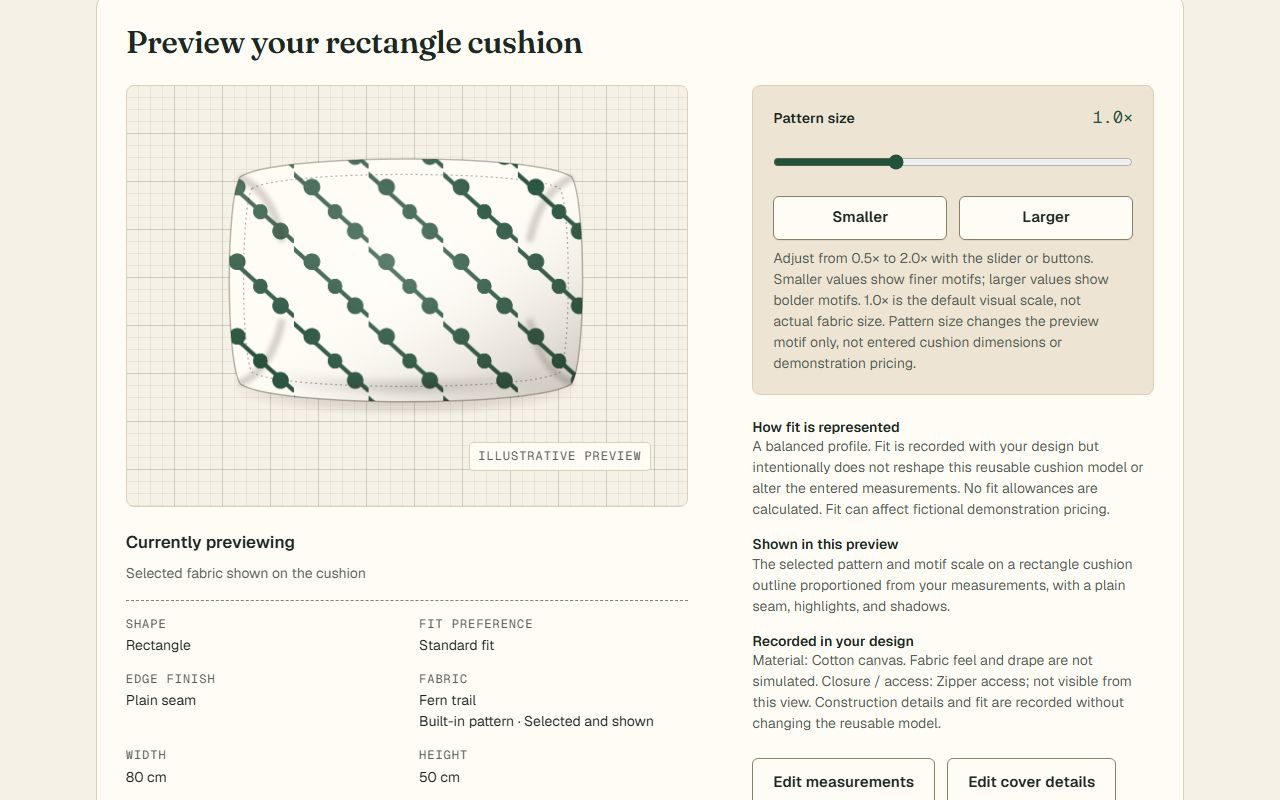
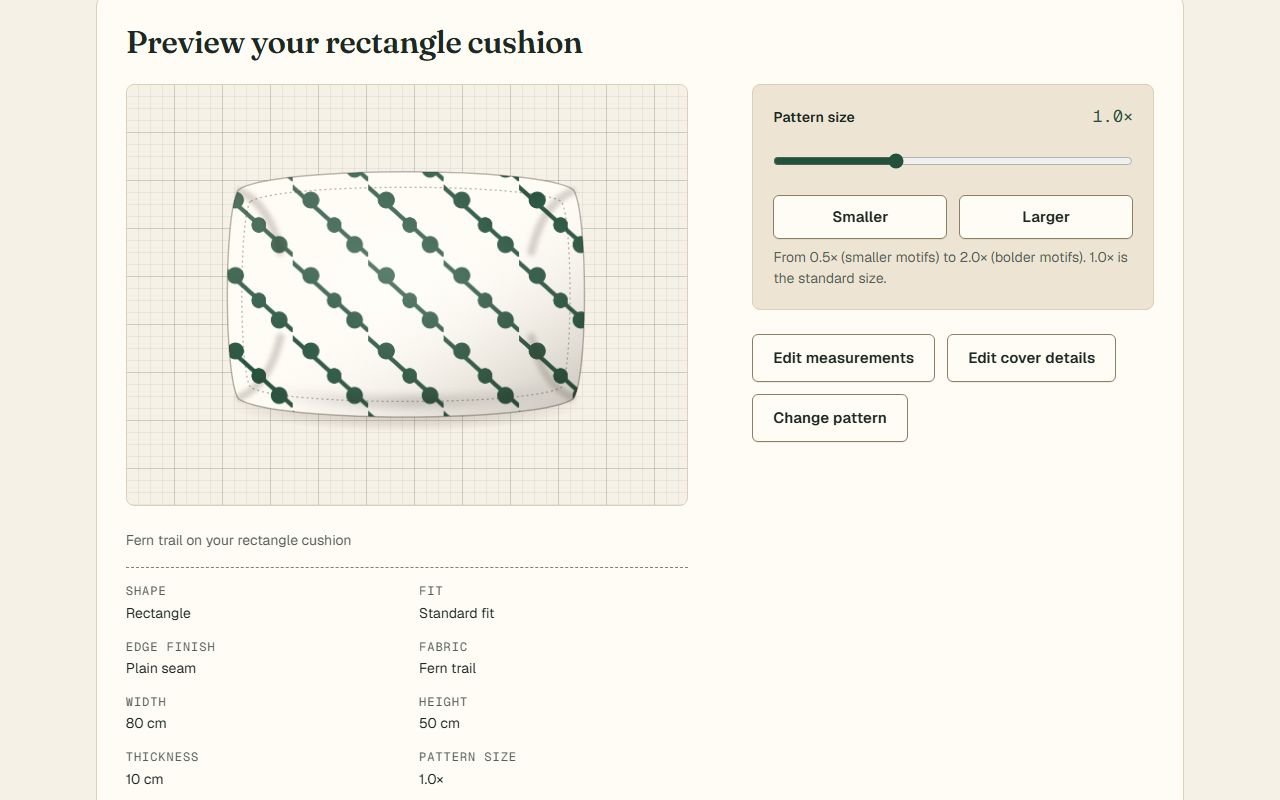
refresh README screenshots

diff --git a/README.md b/README.md
@@ -5,7 +5,7 @@ Measure the cushion you already own, pick a fabric, and get a previewed, shareab
 [![Frontend CI and deploy](https://github.com/nicolasfrechette91/SewnCovers/actions/workflows/deploy-pages.yml/badge.svg)](https://github.com/nicolasfrechette91/SewnCovers/actions/workflows/deploy-pages.yml)
 [![Backend CI and deploy](https://github.com/nicolasfrechette91/SewnCovers/actions/workflows/deploy-backend.yml/badge.svg)](https://github.com/nicolasfrechette91/SewnCovers/actions/workflows/deploy-backend.yml)
 
-![The configurator's Preview stage: a rectangular cushion covered in the green Fern trail pattern on a cutting mat, beside the pattern-size slider and the design details.](docs/images/preview-step.jpg)
+![The configurator's Preview stage: a rectangular cushion drawn in the green Fern trail pattern on a grid-lined cutting mat, with the pattern-size slider and edit buttons beside it and the design details below.](docs/images/preview-step.jpg)
 
 - **Live demo:** [nicolasfrechette91.github.io/SewnCovers](https://nicolasfrechette91.github.io/SewnCovers/) ([open the configurator](https://nicolasfrechette91.github.io/SewnCovers/configure/))
 - **Demo share link:** [a saved box cushion in Terrace wave](https://nicolasfrechette91.github.io/SewnCovers/configure/?design=fzlGCyCVpfiMf96geBq_jg), restored exactly from the API
@@ -17,16 +17,16 @@ The API runs on a free Render instance. It sleeps when idle, so the first reques
 | --- | --- |
 | ![The landing page: the headline "Design a cover that fits the cushion you already have", a Start configuring button and a measured 45 by 45 cm patterned cushion drawing.](docs/images/home.jpg) | ![The configurator's Shape stage: a six-stage progress track and five cushion shape cards with Rectangle cushion selected.](docs/images/shape-step.png) |
 | **Pattern stage** | **Review stage** |
-| ![The Pattern stage: built-in pattern search and filters, the Fern trail card selected, and a Current selections panel listing the rectangle's measurements and cover choices.](docs/images/pattern-step.png) | ![The Review stage: the prototype notice, a table of the chosen measurements and options, and the patterned cushion preview.](docs/images/review.jpg) |
+| ![The Pattern stage: a search box and style and colour filters above the 15 patterns, with Fern trail selected, and beside them a Current selections list and a live cushion preview in that pattern.](docs/images/pattern-step.jpg) | ![The Review stage: the prototype notice, a list of the chosen measurements and options, and the patterned cushion preview.](docs/images/review.jpg) |
 
 ## What this demonstrates
 
-- **A static frontend on a separate API.** Next.js 16 exported to GitHub Pages with no frontend server and no third-party runtime dependencies, validating every API response at runtime ([architecture](docs/architecture.md)).
+- **A static frontend on a separate API.** Next.js 16 exported to GitHub Pages with no frontend server and no runtime dependencies beyond Next.js and React, validating every API response at runtime ([architecture](docs/architecture.md)).
 - **Immutable share links with an explicit no-retry policy.** A saved design never changes, and the client never silently retries the write ([ADR 0002](docs/adr/0002-immutable-designs-no-post-retry.md)).
 - **A production start that refuses a wrong schema.** The API migrates, verifies the exact schema, constraints and seed, and only then serves ([ADR 0003](docs/adr/0003-migration-gated-production-start.md)).
 - **Guest-first accounts.** The whole design flow works without signing up; sign-in is inline and never costs the design. Argon2id passwords, hashed and revocable bearer sessions, object-level authorization ([ADR 0004](docs/adr/0004-guest-first-opaque-sessions.md)).
 - **A documented, enforced design system.** Tokens, checked contrast ratios, reduced-motion and forced-colours support, guarded by a test ([design](docs/design.md)).
-- **Offline-by-construction tests.** Over 250 frontend unit tests, about 90 Playwright journeys against a mocked API, and over 350 backend tests on migrated SQLite databases, all run by CI before either side deploys ([testing](docs/testing.md)).
+- **Offline-by-construction tests.** Over 350 frontend unit tests, about 90 Playwright journeys against a mocked API, and over 550 backend tests on migrated SQLite databases, all run by CI before either side deploys ([testing](docs/testing.md)).
 
 The reasoning behind the project is in the [case study](docs/case-study.md).
 
@@ -88,7 +88,7 @@ macOS and Linux commands, PostgreSQL, and how to switch on commerce and custom u
 
 ## Honest boundaries
 
-- **Custom uploads and commerce are switched off in production.** Both are implemented and tested, but the live API answers `503` for them. Uploads need object storage and an image-moderation provider, commerce needs a payment provider, tax and legal review, and none of that is worth operating for a portfolio. Both run locally ([setup](docs/setup.md#3-turn-on-commerce-and-custom-uploads-locally)). Commerce is a fictional CAD sandbox that never contacts a provider.
+- **Custom uploads and commerce are switched off in production.** Both are implemented and tested, but the live API reports them disabled and answers `503` to their routes, and the Pattern stage shows a "not enabled in this demo" note instead of the upload form. Uploads need object storage and an image-moderation provider, commerce needs a payment provider, tax and legal review, and none of that is worth operating for a portfolio. Both run locally ([setup](docs/setup.md#3-turn-on-commerce-and-custom-uploads-locally)). Commerce is a fictional CAD sandbox that never contacts a provider.
 - **It is a prototype.** It cannot charge money, ship anything or produce a finished cover, and says so where it matters.
 - **Authentication is portfolio-grade.** No email verification or password recovery, and the session token lives in `sessionStorage`. Sign-in attempts are slowed per network and per email with a backoff kept in the database, so it survives restarts ([limits](docs/api.md#limits)). See [SECURITY.md](SECURITY.md).
 - **Free tiers mean cold starts.** The free API instance sleeps when idle and nothing keeps it awake; the site warms it on page load and shows a waking notice ([deployment](docs/deployment.md#free-tier-behaviour)).
